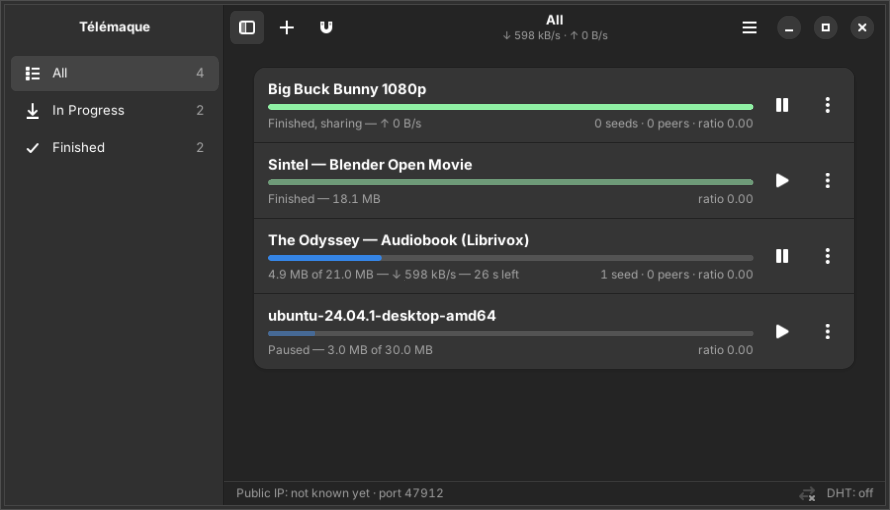
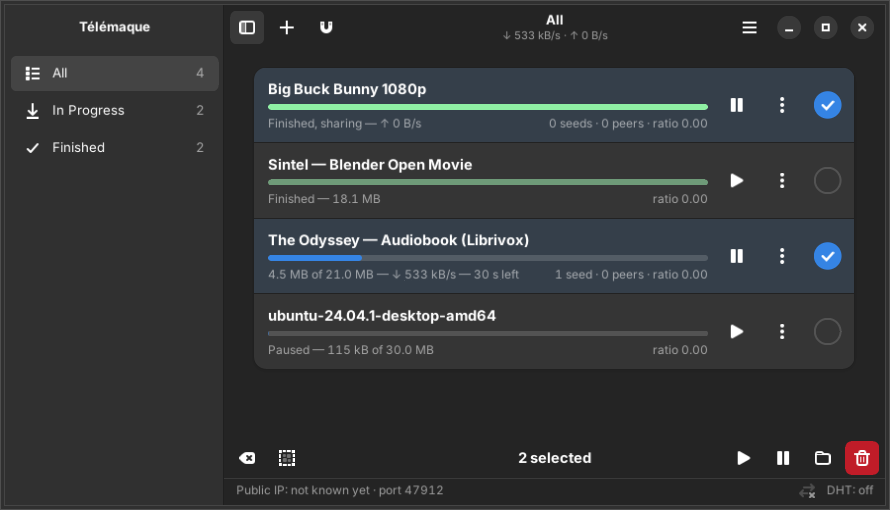
Version 1.0.4
Sélection multiple (cases rondes), déplacement des fichiers, fichiers
incomplets en .part, correction d'un plantage à la fin d'un déplacement.

Claude-Session: https://claude.ai/code/session_01DLrkgZZZBUMYUUihuPcv9t

diff --git a/site/index.html b/site/index.html
@@ -127,13 +127,13 @@
       <a href="#install">Install</a>
       <a href="https://github.com/ToFpon/Telemaque">GitHub</a>
     </div>
-    <span class="get-pill">v1.0.3 · GPL-3.0</span>
+    <span class="get-pill">v1.0.4 · GPL-3.0</span>
   </div>
 </nav>
 
 <header class="hero">
   <div class="wrap">
-    <span class="eyebrow"><span class="dot"></span>Version 1.0.3 — for Ubuntu 24.04, Zorin OS 18, Debian 13</span>
+    <span class="eyebrow"><span class="dot"></span>Version 1.0.4 — for Ubuntu 24.04, Zorin OS 18, Debian 13</span>
     <h1>Torrents.<br><span class="accent">Nothing else.</span></h1>
     <p class="lede">Télémaque downloads torrents with libtorrent — the engine of qBittorrent and Deluge — in a
       native GTK4 and libadwaita window that follows your desktop theme. No video sites, no RSS, no search
@@ -189,7 +189,8 @@
     </div>
     <div class="grid">
       <div class="card"><div class="ico">⇅</div><h4>Fair sharing</h4><p>Stops sharing at the ratio you choose (1.0 by default), never, or right away.</p></div>
-      <div class="card"><div class="ico">⏸</div><h4>Pause, resume, remove</h4><p>Remove from the list only, or delete the files too. Everything resumes at the next start.</p></div>
+      <div class="card"><div class="ico">⏸</div><h4>Pause, resume, move, remove</h4><p>One download or several at once (round check boxes). Move the files to another folder during or after the download. Remove from the list only, or delete the files too.</p></div>
+      <div class="card"><div class="ico">◔</div><h4>.part until complete</h4><p>An incomplete file ends with .part, so it is never mistaken for a finished one. Everything resumes at the next start.</p></div>
       <div class="card"><div class="ico">⚡</div><h4>Speed limits</h4><p>Download and upload limits, listening port, DHT on or off.</p></div>
       <div class="card"><div class="ico">🔔</div><h4>Notifications</h4><p>A desktop notification when a download is finished, with Open and Show in Folder.</p></div>
     </div>

diff --git a/telemaque/__init__.py b/telemaque/__init__.py
@@ -2,4 +2,4 @@
 
 APP_ID = "io.github.telemaque.Telemaque"
 APP_NAME = "Télémaque"
-VERSION = "1.0.3"
+VERSION = "1.0.4"
